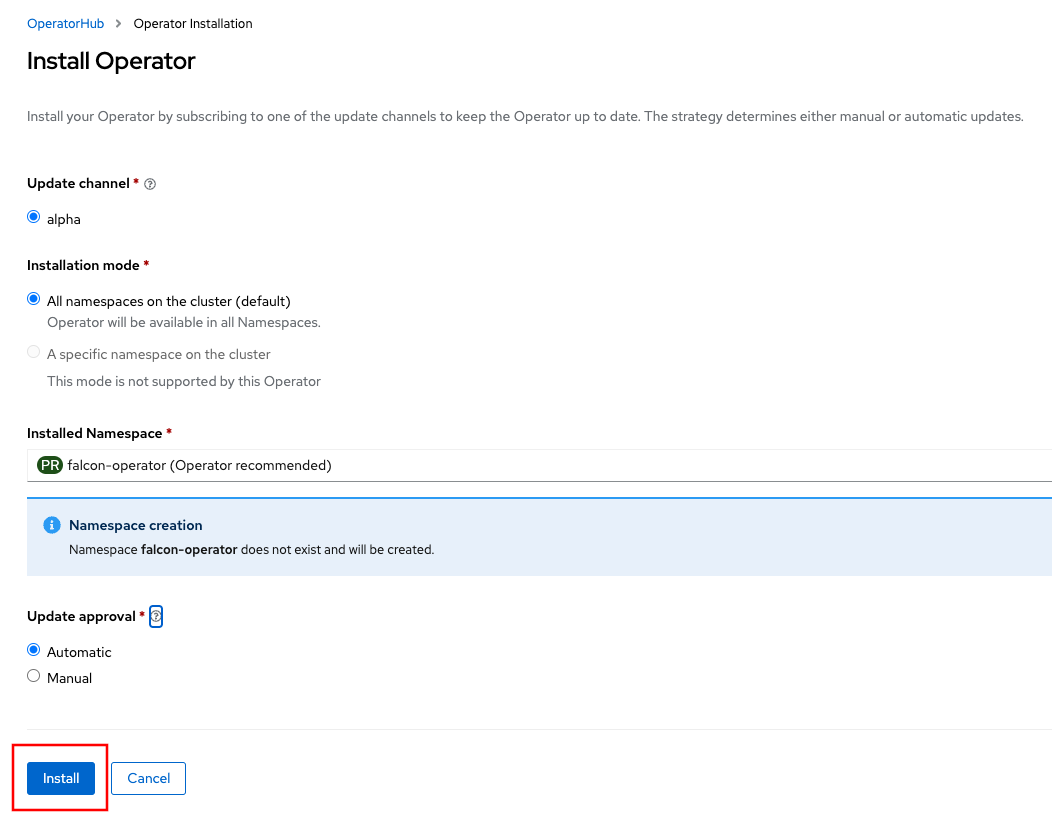
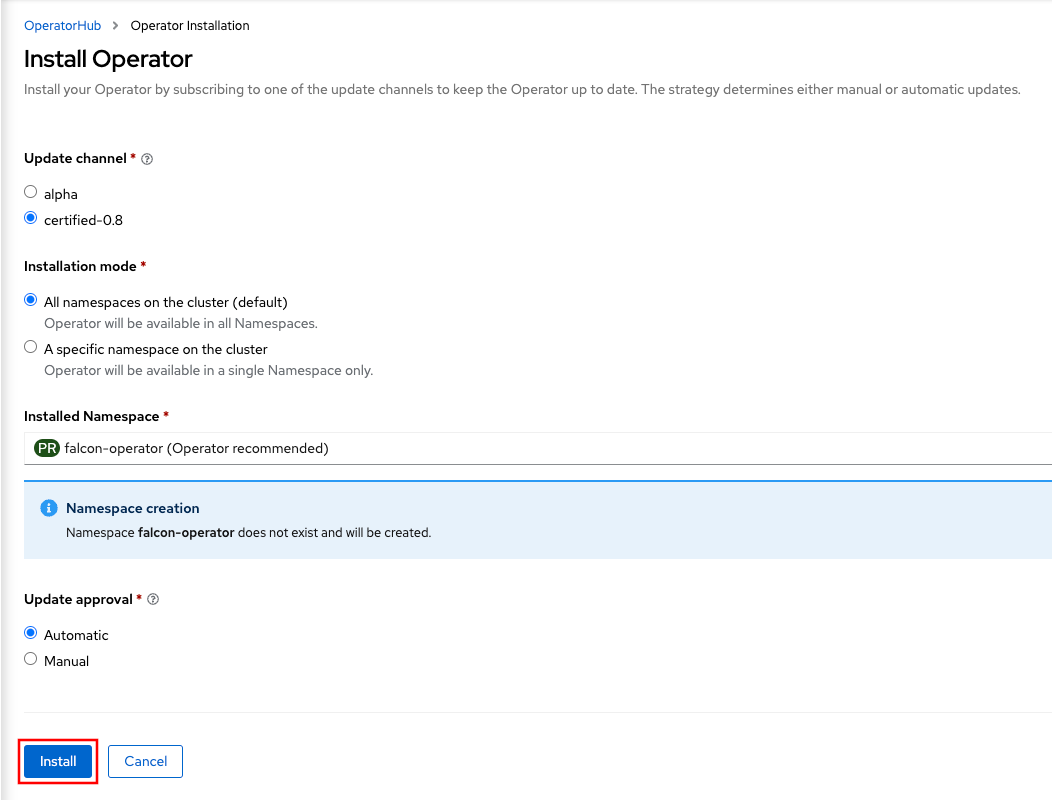
docs: update redhat deployment doc and images

diff --git a/docs/deployment/openshift/README.md b/docs/deployment/openshift/README.md
@@ -9,6 +9,7 @@ If you want to automate the deployment of the operator, the CLI method is recomm
 ## Prerequisites
 
 - A CrowdStrike Cloud Workload Protection (CWP) subscription
+- Red Hat Openshift 4.10+
 - If your are installing the CrowdStrike Sensor via the Crowdstrike API, you need to create a new CrowdStrike API key pair with the following permissions:
   - Falcon Images Download: Read
   - Sensor Download: Read
@@ -32,7 +33,7 @@ If you want to automate the deployment of the operator, the CLI method is recomm
    ![OpenShift CrowdStrike Operator Install](images/ocp-opinstall.png)
 
 - Make any necessary changes as desired to the `InstallPlan` before installing the operator. You can set the update approval to `Automatic` which is the default or `Manual`. If you set to `Manual`, updates require approval before an operator will update.
-  Click the `Install` button to begin the install.
+  You can also set the desired update channel for OpenShift to check for updates. Please note that installation versions are tied to channels, and versions may not exist in every channel. Click the `Install` button to begin the install.
 
    ![OpenShift CrowdStrike Operator Install](images/ocp-opinstall2.png)
 
@@ -74,7 +75,7 @@ If you want to automate the deployment of the operator, the CLI method is recomm
 
 ## Installing the operator through the CLI
 
-### Install using the Krew plugin
+### Install using the Krew plugin (Preferred)
 
 To easily uninstall the operator, install Krew if it is not already installed:
 
@@ -166,7 +167,7 @@ Once the Krew plugin is installed:
     sourceNamespace: openshift-marketplace
   EOF
   ```
-  An [example subscription of the official Red Hat Marketplace certified operator is available](redhat-subscription.yaml) to use and modify as appropriate for your cluster. In this example, the install version is specified via `startingCSV`. Make sure to either delete the `startingCSV` or update the `startingCSV: falcon-operator.v0.5.4` for the version that is listed locally on your cluster.
+  Replace the `channel` in the above spec to the desired deployment channel e.g. `alpha`, `certified-X` (where X is the version), or `stable`, etc. An [example subscription of the official Red Hat Marketplace certified operator is available](redhat-subscription.yaml) to use and modify as appropriate for your cluster. If a specific operator version is desired, add `startingCSV` with the desired operator version e.g. `startingCSV: falcon-operator.v0.1.2`.
 
 #### Deploy the operator
 
@@ -259,7 +260,7 @@ This will insure proper cleanup of the resources.
 
 ### Uninstall using the CLI
 
-### Uninstall using the Krew plugin
+### Uninstall using the Krew plugin (Preferred)
 
 To easily uninstall the operator, install Krew if it is not already installed:
 
